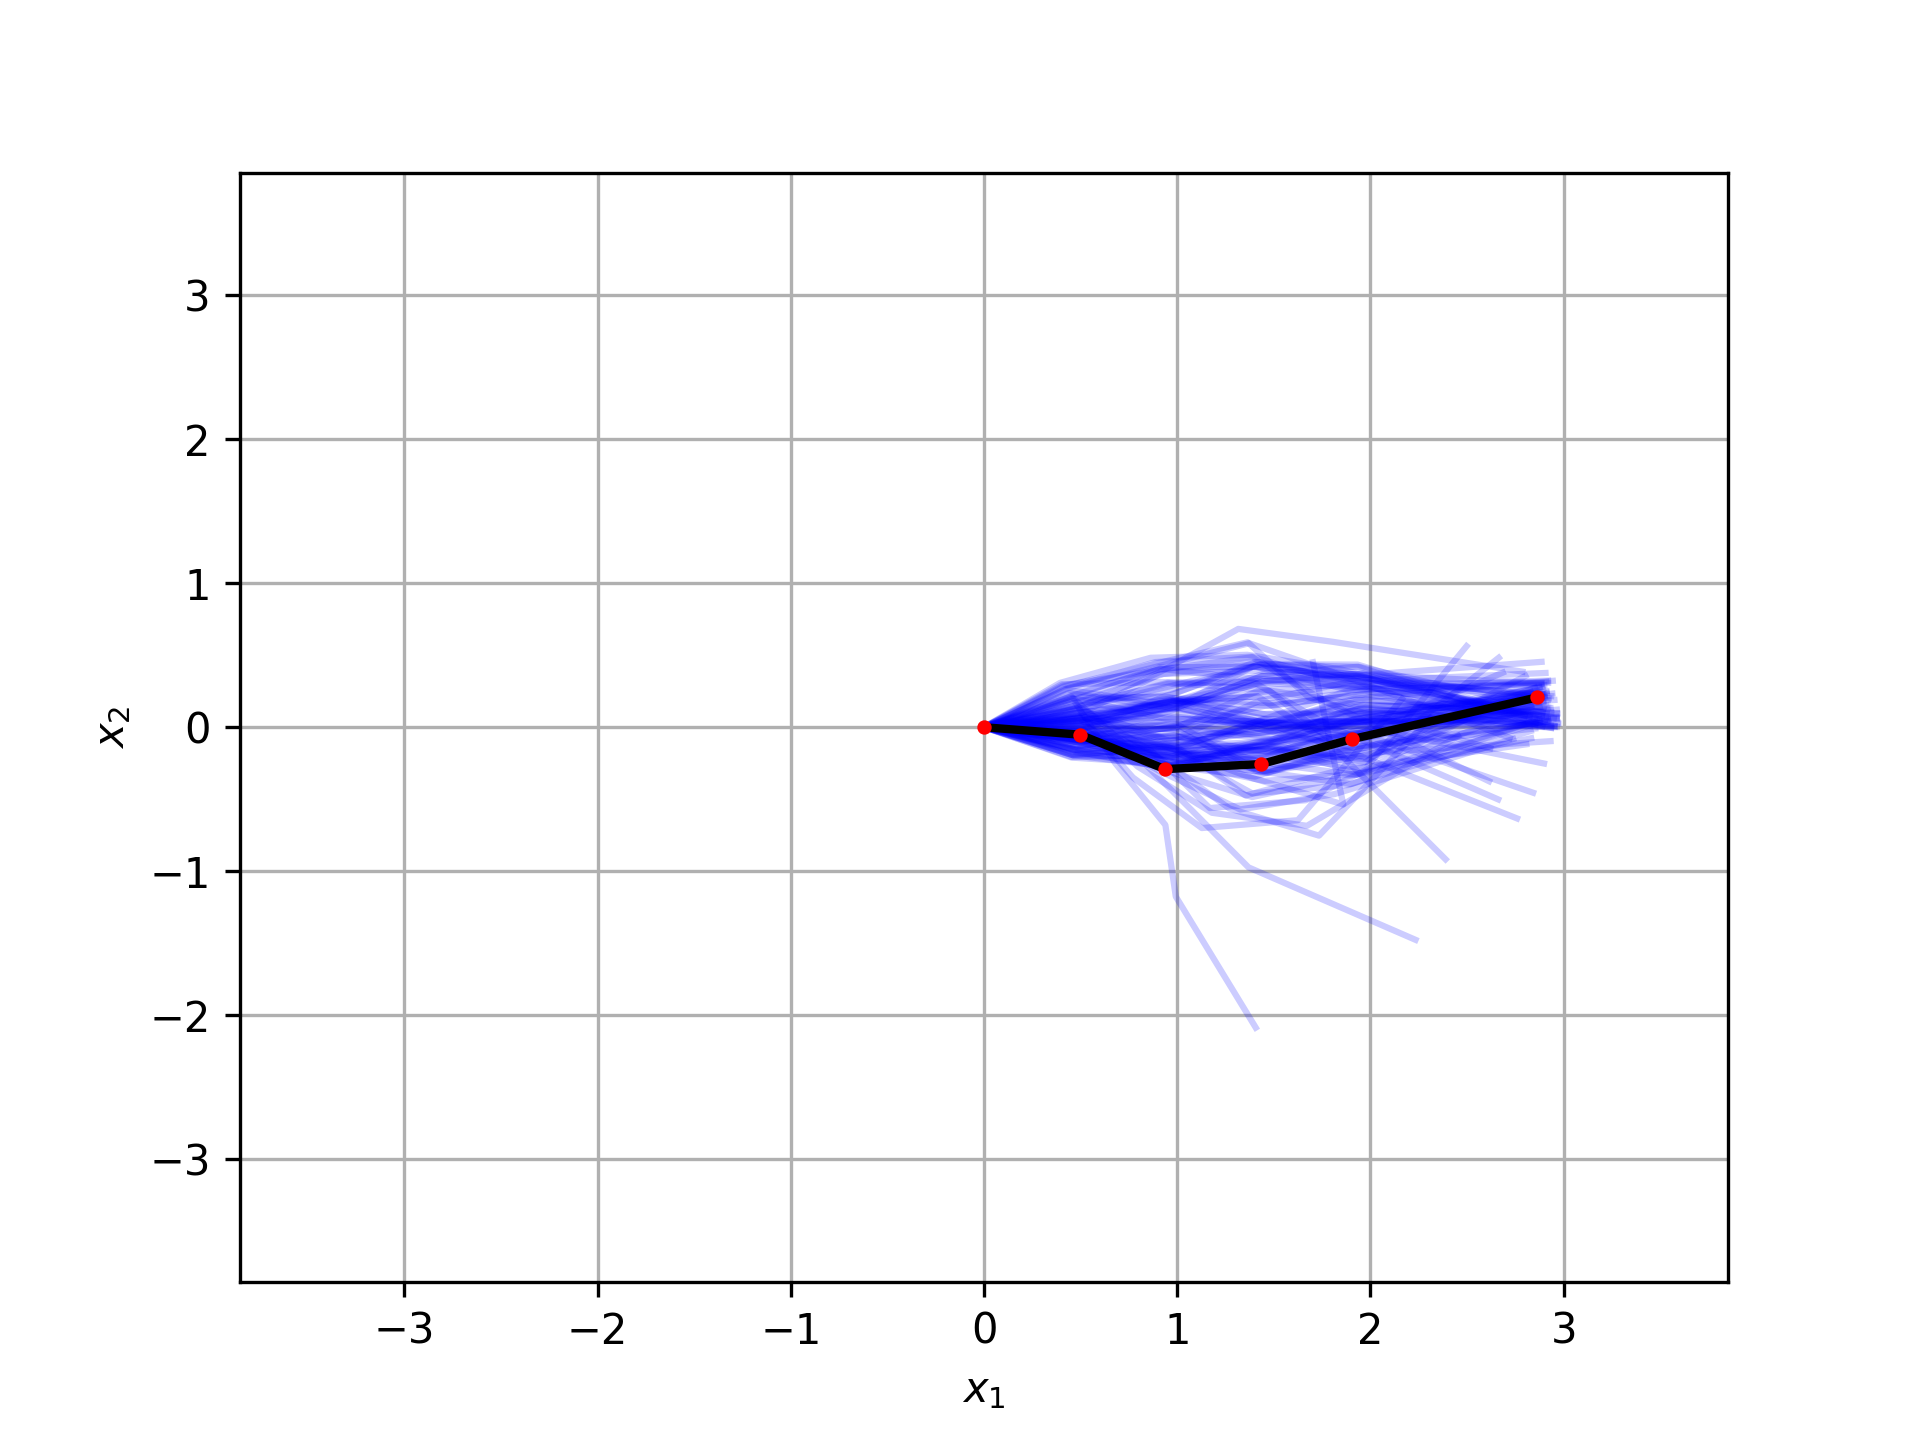
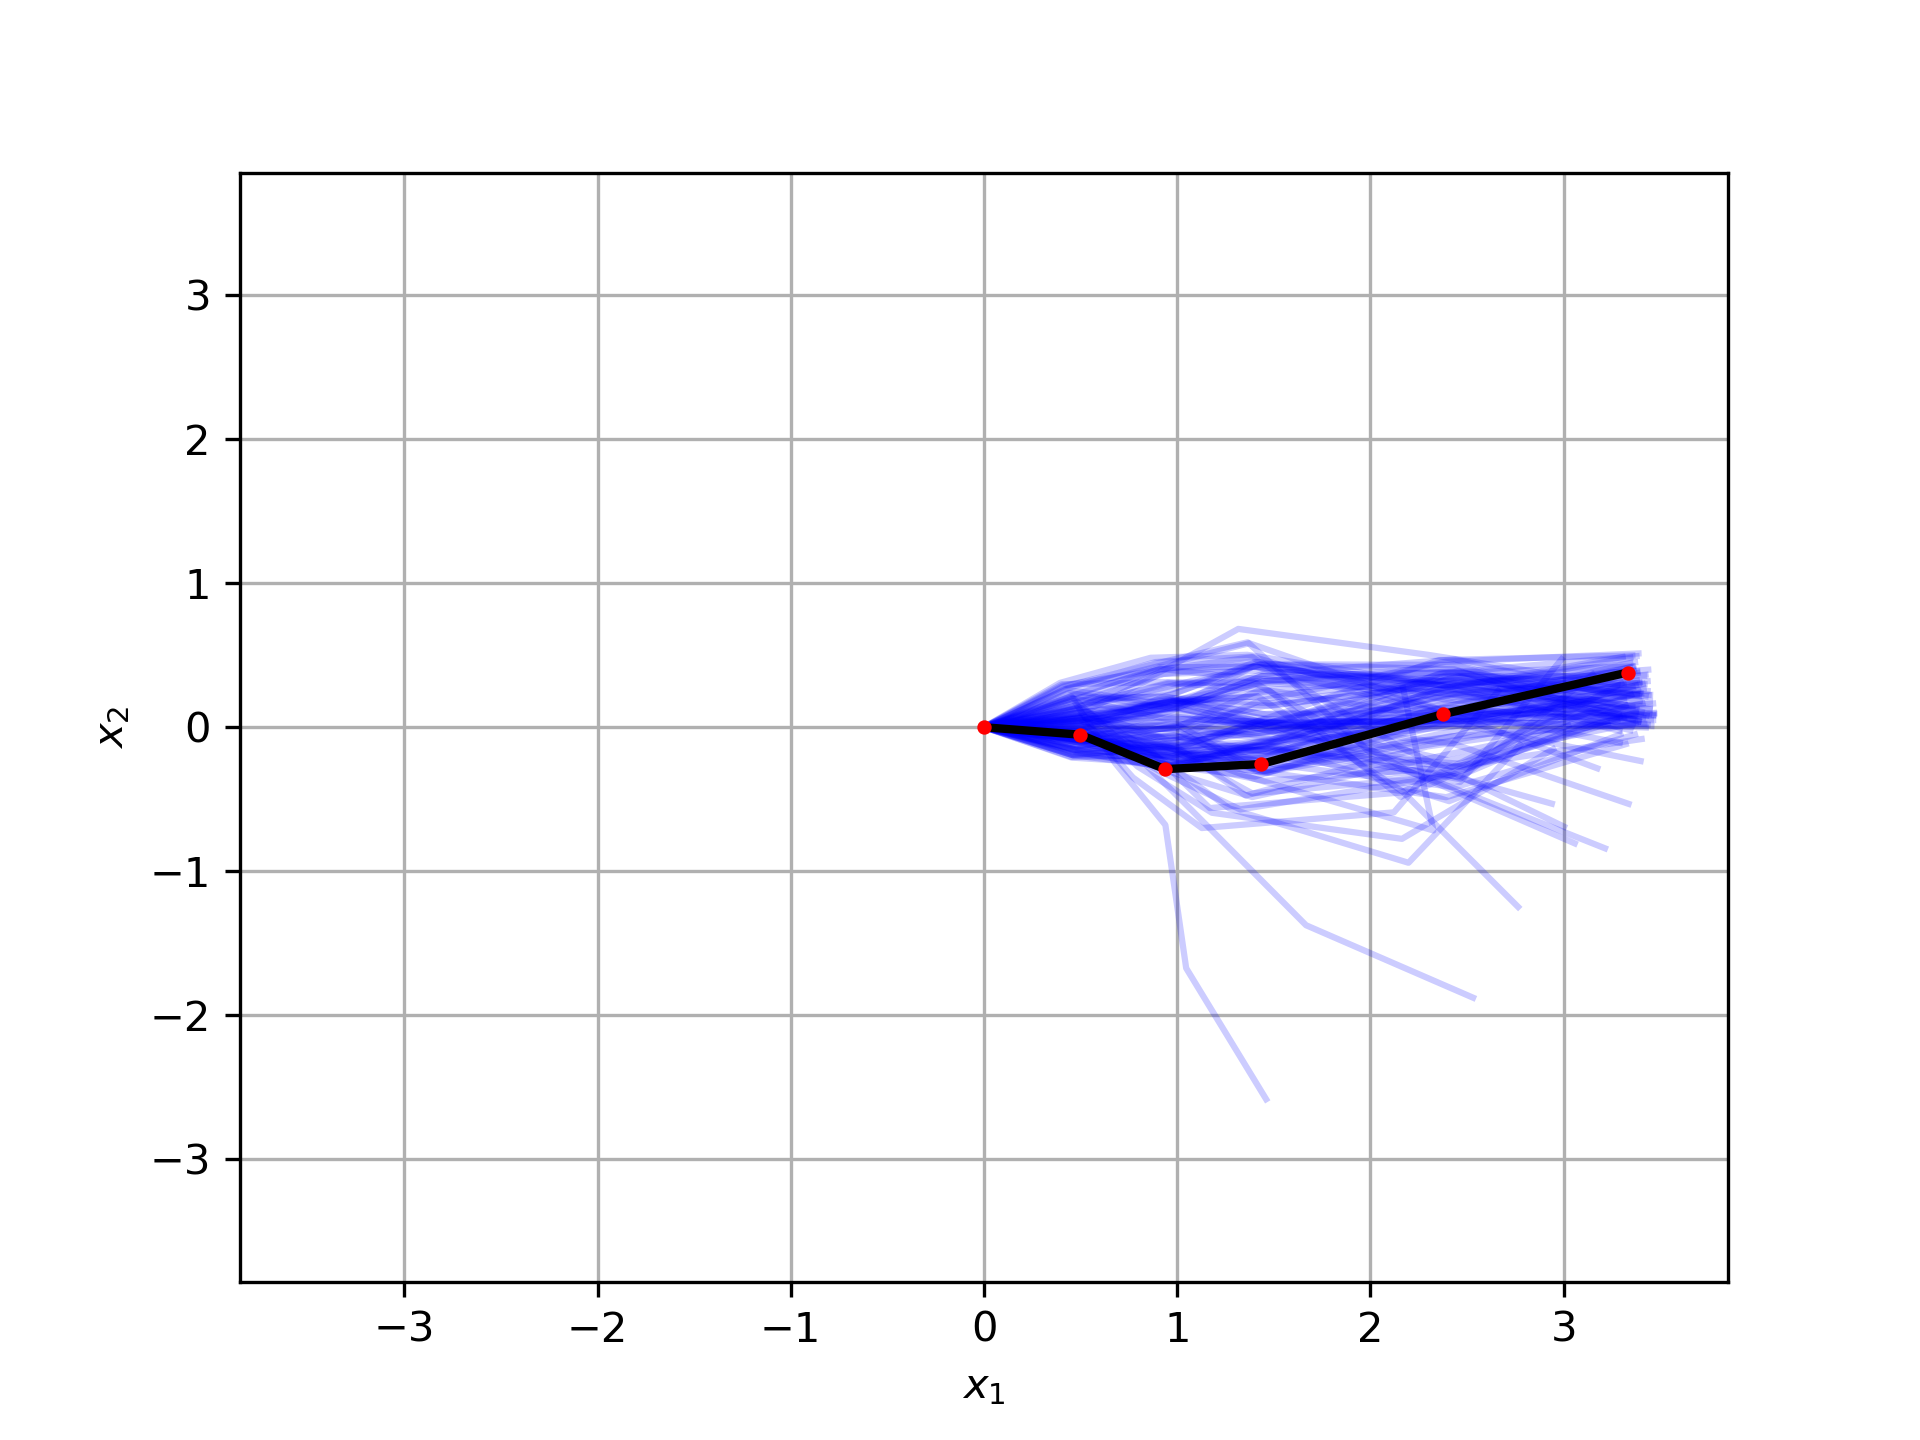
Fixed bug that caused plots of robots to have wrong link lengths
New test results

diff --git a/src/robotsim/planar.py b/src/robotsim/planar.py
@@ -139,7 +139,7 @@ class Planar(Robot):
         # coordinates of each link
         for i in range(1, self._num_dof):
             T = T @ utils.dh_transformation(
-                0, self._len_links[0], 0, joint_states[:, i], False)
+                0, self._len_links[i-1], 0, joint_states[:, i], False)
             joint_coords[:, i] = T[:, :2, -1]
 
         # coordinates of end-effector
@@ -164,14 +164,15 @@ class Planar(Robot):
 if __name__ == "__main__":
 
     # functionality tests
-    robot = Planar(5, [1, 1, 1, 1, 1])
+    robot = Planar(5, [1, 1, 1, 1, 2])
 
     # one input
-    js = [1, -1, 2, -2, 1]
+    js = [1, -1, -1, 1, -1]
     # plot(js, robot, show=True)
     tcp = robot.forward(js)
     js_sampling = robot.rejection_sampling(
         tcp[:2], num_samples=5000, eps=0.05, mean=0, std=1)
+    robot.get_joint_coords(js)
     heatmap(
         js_sampling, robot, highlight=1, transparency=0.005,
         path="./figures/robotsim/rejection_sampling_Planar_5DOF.png")

diff --git a/src/robotsim/robot.py b/src/robotsim/robot.py
@@ -85,7 +85,7 @@ class Robot(ABC):
                 "Wrong shape of TCP coordinates: {}"
                 .format(tcp_coordinates))
 
-        if np.linalg.norm(tcp_coordinates) >= self.get_length():
+        if np.linalg.norm(tcp_coordinates) > self.get_length():
             raise RuntimeError(
                 "TCP coordinates are outside workspace: {}"
                 .format(tcp_coordinates))

diff --git a/src/robotsim/paper.py b/src/robotsim/paper.py
@@ -67,7 +67,7 @@ class Paper(Robot):
 if __name__ == "__main__":
 
     # functionality tests
-    robot = Paper(5, [1, 1, 1, 1])
+    robot = Paper(5, [1, 2, 1, 2])
 
     # one input
     js = [0, 1, -1, 1, -1]
